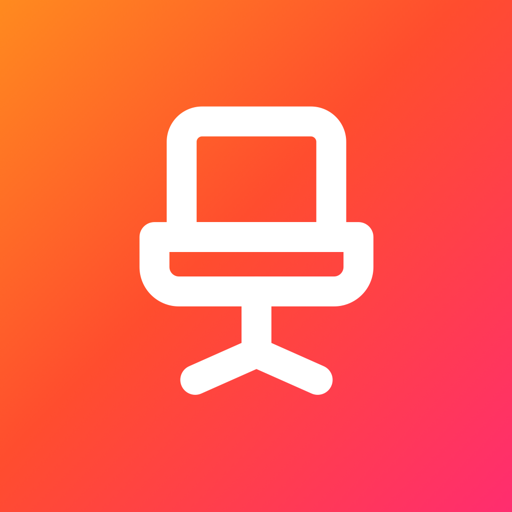
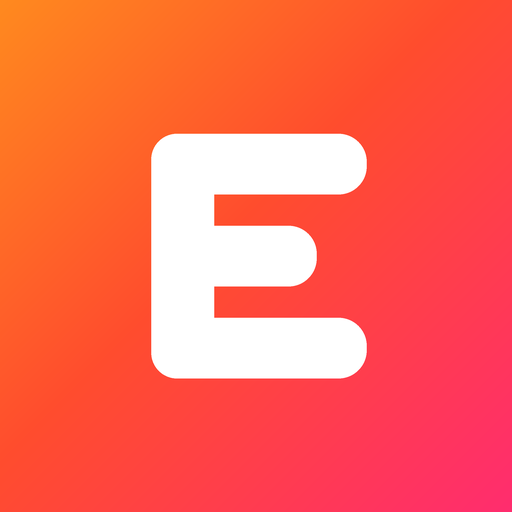
Rename the visible brand to Edify; label sample content honestly
- Tab title, Home Screen name, manifest, welcome and desktop logos, share
  text, Stories label and team credits now say Edify / Team 10. The URL
  path /hot-seat/ is unchanged because printed QR codes point at it.
- New neutral E mark replaces the hot-seat chair in the logo and app icons.
- Board answers from invented people are labelled 'Sample answer' and no
  longer carry a Verified CEO badge; debate takes are marked as samples.
- The feed rail shows Like / Debate instead of invented counts, and the
  welcome screen no longer claims an invented player count.

Changed region(s): [[0.25, 0.1875, 0.75, 0.7812]]

diff --git a/index.html b/index.html
@@ -6,11 +6,11 @@
 <meta name="apple-mobile-web-app-capable" content="yes">
 <meta name="mobile-web-app-capable" content="yes">
 <meta name="apple-mobile-web-app-status-bar-style" content="black">
-<meta name="apple-mobile-web-app-title" content="Hot Seat">
+<meta name="apple-mobile-web-app-title" content="Edify">
 <link rel="apple-touch-icon" href="icon-180.png">
 <link rel="icon" type="image/png" href="icon-192.png">
 <link rel="manifest" href="manifest.webmanifest">
-<title>Hot Seat</title>
+<title>Edify</title>
 
 <meta name="theme-color" content="#000000">
 <link rel="preconnect" href="https://fonts.googleapis.com">
@@ -955,6 +955,9 @@ svg{display:block}
 #minput{flex:1;min-height:40px;max-height:120px;resize:none;border:0;outline:0;border-radius:20px;background:var(--s2);color:var(--fg1);padding:10px 14px;font:500 16px/1.25 var(--font-t);box-shadow:inset 0 0 0 1px var(--line2)}
 #minput::placeholder{color:var(--fg4)}
 
+.ans .ah .tier.smp{background:rgb(255 255 255/.08);color:var(--fg3);margin-left:4px}
+.smpnote{margin:0 0 10px;font:600 12.5px/1.3 var(--font-t);color:var(--fg3)}
+
 [hidden]{display:none!important}
 
 </style>
@@ -962,7 +965,7 @@ svg{display:block}
 <body>
 <div class="stage" id="stage">
   <aside class="side l" aria-hidden="true">
-    <div class="brand"><svg width="44" height="44" viewBox="0 0 44 44"><rect width="44" height="44" rx="13" fill="url(#gHeat)"/><g transform="translate(10 10)" fill="none" stroke="#fff" stroke-width="2.2" stroke-linecap="round" stroke-linejoin="round"><path d="M8 2.5h8a1.5 1.5 0 0 1 1.5 1.5v7h-11V4A1.5 1.5 0 0 1 8 2.5z"/><path d="M4.5 11h15v2.2a1.8 1.8 0 0 1-1.8 1.8H6.3a1.8 1.8 0 0 1-1.8-1.8z"/><path d="M12 15v4.5M7.5 21.5 12 19.5l4.5 2"/></g></svg><b>Hot Seat</b></div>
+    <div class="brand"><svg width="44" height="44" viewBox="0 0 44 44"><rect width="44" height="44" rx="13" fill="url(#gHeat)"/><g fill="#fff"><rect x="13" y="11.5" width="5.4" height="21" rx="2.2"/><rect x="13" y="11.5" width="18.5" height="5.2" rx="2.4"/><rect x="13" y="19.4" width="14.2" height="5.2" rx="2.4"/><rect x="13" y="27.3" width="18.5" height="5.2" rx="2.4"/></g></svg><b>Edify</b></div>
     <h1>Real CEO decisions. <span>Thirty seconds each.</span></h1>
     <p>Scroll, make the call, see what really happened and how everyone else chose. Climb from Intern to CEO.</p>
     <div class="keys">
@@ -2370,7 +2373,7 @@ const IC = {
 };
 const icon = (n, fill) => `<svg viewBox="0 0 24 24" ${fill ? 'fill="currentColor" stroke="none"' : 'fill="none" stroke="currentColor" stroke-width="2" stroke-linecap="round" stroke-linejoin="round"'} aria-hidden="true">${IC[n] || ''}</svg>`;
 const FLAME = `<svg class="flame" viewBox="0 0 24 24" aria-hidden="true"><path fill="url(#gFlame)" d="M12 2.5c.6 3.2 4.9 5.6 4.9 10.6A4.9 4.9 0 0 1 12 18a4.9 4.9 0 0 1-4.9-4.9c0-2.6 1.4-4.2 2.6-5.3.1 1.5.8 2.6 1.9 3.1-.3-2.9.1-5.8.4-8.4z"/><path fill="#ffe08a" d="M12 11.2c.3 1.5 2.3 2.4 2.3 4.6a2.3 2.3 0 0 1-4.6 0c0-1.3.8-2.1 1.4-2.6.1.7.4 1.1.8 1.3-.1-1.2 0-2.3.1-3.3z"/></svg>`;
-const LOGO = s => `<svg width="${s}" height="${s}" viewBox="0 0 44 44" aria-hidden="true"><rect width="44" height="44" rx="13" fill="url(#gHeat)"/><g transform="translate(10 10)" fill="none" stroke="#fff" stroke-width="2.2" stroke-linecap="round" stroke-linejoin="round"><path d="M8 2.5h8a1.5 1.5 0 0 1 1.5 1.5v7h-11V4A1.5 1.5 0 0 1 8 2.5z"/><path d="M4.5 11h15v2.2a1.8 1.8 0 0 1-1.8 1.8H6.3a1.8 1.8 0 0 1-1.8-1.8z"/><path d="M12 15v4.5M7.5 21.5 12 19.5l4.5 2"/></g></svg>`;
+const LOGO = s => `<svg width="${s}" height="${s}" viewBox="0 0 44 44" aria-hidden="true"><rect width="44" height="44" rx="13" fill="url(#gHeat)"/><g fill="#fff"><rect x="13" y="11.5" width="5.4" height="21" rx="2.2"/><rect x="13" y="11.5" width="18.5" height="5.2" rx="2.4"/><rect x="13" y="19.4" width="14.2" height="5.2" rx="2.4"/><rect x="13" y="27.3" width="18.5" height="5.2" rx="2.4"/></g></svg>`;
 
 /* ================= state ================= */
 const KEY = 'hotseat1:';
@@ -2804,8 +2807,8 @@ function caseCard(c, mode) {
     hero = `<div class="snapwrap"><figure class="snap float" style="--rot:${(hash(c.id) % 7) - 4}deg">${ph}<figcaption>${cap}</figcaption></figure></div>`;
   }
   const rail = `<nav class="rail">
-      <button class="r-like ${S.liked.includes(c.id) ? 'liked' : ''}" aria-label="Like"><span class="ic">${icon('heart', 1)}</span><span class="num lk">${fmt(st.likes + (S.liked.includes(c.id) ? 1 : 0))}</span></button>
-      <button class="r-debate" aria-label="Debate"><span class="ic">${icon('chat', 1)}</span><span class="num">${fmt(st.comments)}</span></button>
+      <button class="r-like ${S.liked.includes(c.id) ? 'liked' : ''}" aria-label="Like"><span class="ic">${icon('heart', 1)}</span><span class="lk">${S.liked.includes(c.id) ? 'Liked' : 'Like'}</span></button>
+      <button class="r-debate" aria-label="Debate"><span class="ic">${icon('chat', 1)}</span><span>Debate</span></button>
       <button class="r-save ${S.saved.includes(c.id) ? 'saved' : ''}" aria-label="Save"><span class="ic">${icon('bookmark', 1)}</span><span>Save</span></button>
       <button class="r-share" aria-label="Share"><span class="ic">${icon('share', 1)}</span><span>Share</span></button></nav>`;
   const facts = (c.facts && c.facts.length && c.type !== 'numbers' && c.type !== 'thread') ? `<div class="collapse q"><div><div class="facts">${c.facts.map(f => `<div class="fact"><b class="num">${esc(f.v)}</b><span>${esc(f.l)}</span></div>`).join('')}</div></div></div>` : '';
@@ -3258,7 +3261,7 @@ function toggleLike(ctrl, force) {
   const id = ctrl.c.id, on = force || !S.liked.includes(id);
   S.liked = S.liked.filter(x => x !== id); if (on) S.liked.push(id); save();
   const st = stat(ctrl.c), n = fmt(st.likes + (on ? 1 : 0));
-  const rb = $('.r-like', ctrl.el); rb.classList.toggle('liked', on); $('.lk', rb).textContent = n;
+  const rb = $('.r-like', ctrl.el); rb.classList.toggle('liked', on); $('.lk', rb).textContent = on ? 'Liked' : 'Like';
   anim($('.ic', rb), [{ transform: 'scale(1)' }, { transform: 'scale(1.35)' }, { transform: 'scale(1)' }], { duration: 500, easing: SPR.bouncy.e });
   const ab = $('.a-like', ctrl.el); if (ab) { ab.classList.toggle('liked', on); ab.innerHTML = icon('heart', on); }
   haptic(); sfx('pop');
@@ -3272,14 +3275,14 @@ function toggleSave(ctrl) {
   haptic(); sfx('pop');
   toast({ icon: '🔖', title: on ? 'Saved to your Playbook' : 'Removed from your Playbook', sub: on ? 'Find it under Playbook → Saved' : '', ms: 1500 });
 }
-async function shareText(text, title = 'Hot Seat') {
+async function shareText(text, title = 'Edify') {
   try { if (navigator.share) { await navigator.share({ title, text }); return; } } catch (e) { if (e && e.name === 'AbortError') return; }
   try { await navigator.clipboard.writeText(text); toast({ icon: '📋', title: 'Copied to clipboard', sub: 'Paste it into LinkedIn or a group chat', ms: 1800 }); }
   catch (e) { openSheet({ title: 'Copy your result', body: `<div class="sharecard"><pre style="-webkit-user-select:text;user-select:text">${esc(text)}</pre></div>` }); }
 }
 function shareCase(c, rec) {
   rec = rec || S.answers[c.id] || S.daily.a[c.id];
-  const t = rec ? `I sat in the hot seat: "${c.hook}"\nMy call: ${c.options[rec.i].t} (${(rec.ms / 1000).toFixed(1)}s) ${rec.win ? '✅' : '❌'}\n${c.options[rec.i].pct}% of players agreed with me. What would you do?` : `Your call: "${c.hook}"\n${c.options.map((o, i) => `${'ABC'[i]}) ${o.t}`).join('\n')}\nAnswer in under 30 seconds on Hot Seat.`;
+  const t = rec ? `I made the call: "${c.hook}"\nMy call: ${c.options[rec.i].t} (${(rec.ms / 1000).toFixed(1)}s) ${rec.win ? '✅' : '❌'}\n${c.options[rec.i].pct}% of players agreed with me. What would you do?` : `Your call: "${c.hook}"\n${c.options.map((o, i) => `${'ABC'[i]}) ${o.t}`).join('\n')}\nAnswer in under 30 seconds on Edify.`;
   shareText(t);
 }
 
@@ -3329,7 +3332,7 @@ function xCard(it, mode) {
         : `<div class="eyebrow">Daily 5 · done</div><h2>${w}/5 winning calls in ${avg}s average.</h2><div class="grid5">${res.map(r => `<i class="${r.win ? 'w' : 'm'}"></i>`).join('')}</div>
           <p>You beat ${clamp(38 + w * 11 + Math.round((20 - avg) * 0.8), 5, 99)}% of today's players. Next Daily 5 in <b class="num" id="dcd"></b>.</p>
           <button class="btn heat x-s">${icon('share')} Share your score</button>`;
-      if (done >= 5) { $('.x-s', box).onclick = () => shareText(`Hot Seat · Daily 5 · ${new Date().toLocaleDateString('en-US', { month: 'short', day: 'numeric' })}\n${res.map(r => r.win ? '🟩' : '🟥').join('')}  ${w}/5 winning calls\n⚡ ${avg}s average · 🔥 ${S.streak}-day streak`); tickCountdown(); }
+      if (done >= 5) { $('.x-s', box).onclick = () => shareText(`Edify · Daily 5 · ${new Date().toLocaleDateString('en-US', { month: 'short', day: 'numeric' })}\n${res.map(r => r.win ? '🟩' : '🟥').join('')}  ${w}/5 winning calls\n⚡ ${avg}s average · 🔥 ${S.streak}-day streak`); tickCountdown(); }
     }
   }
   render();
@@ -3345,8 +3348,8 @@ function tickCountdown() {
   cdT = setTimeout(tickCountdown, 1000);
 }
 function ansHTML(a, k, voted) {
-  const tier = a.tier || 'Member', cls = /Verified/.test(tier) ? 'v' : /VP/.test(tier) ? 'p' : '';
-  return `<button class="ans ${voted === k ? 'voted' : ''}" data-k="${k}"><div class="ah"><span class="av" style="width:22px;height:22px;font-size:9px;background:${avColor(a.name)}">${esc(initials(a.name))}</span>${esc(a.name)} <span class="tier ${cls}">${esc(tier)}</span></div><p>${esc(a.text)}</p><div class="vote">${icon('up')} <span class="num">${(a.votes || 0) + (voted === k ? 1 : 0)}</span> · ${esc(a.org || '')}</div></button>`;
+  const tier = String(a.tier || 'Member').replace(/^Verified CEO$/i, 'CEO'), cls = /VP/.test(tier) ? 'p' : '';
+  return `<button class="ans ${voted === k ? 'voted' : ''}" data-k="${k}"><div class="ah"><span class="av" style="width:22px;height:22px;font-size:9px;background:${avColor(a.name)}">${esc(initials(a.name))}</span>${esc(a.name)} <span class="tier ${cls}">${esc(tier)}</span><span class="tier smp">Sample answer</span></div><p>${esc(a.text)}</p><div class="vote">${icon('up')} <span class="num">${(a.votes || 0) + (voted === k ? 1 : 0)}</span> · ${esc(a.org || '')}</div></button>`;
 }
 function bindVotes(box, b, rerender) {
   $$('.ans', box).forEach(btn => btn.onclick = () => {
@@ -3797,14 +3800,14 @@ function openCoach(c) {
     <p style="margin:0;font:500 15px/1.5 var(--font-t);color:var(--fg2)">${esc(c.outcome)}</p>
     ${(c.deep || []).map((d, k) => `<div class="bul"><i>${k + 1}</i><span>${esc(d)}</span></div>`).join('')}
     <div class="lesson" style="margin-top:4px"><small>Take it with you</small><b>${esc(c.lesson)}</b></div>
-    ${c.source ? `<div class="src">Source: ${esc(c.source)}. Summary written by the Hot Seat team, not a quote.</div>` : '<div class="src">Scenario written by the Hot Seat team from common founder situations.</div>'}
+    ${c.source ? `<div class="src">Source: ${esc(c.source)}. Summary written by Team 10, not a quote.</div>` : '<div class="src">Scenario written by Team 10 from common founder situations.</div>'}
     <button class="btn ghost" id="coachAsk" style="width:100%">${icon('chat')} Ask the Board about this</button></div>`,
     onMount() { $('#coachAsk').onclick = () => { closeSheet(); askSeg = 'board'; go('ask'); setTimeout(openComposer, 420); }; } });
 }
 function openListen(c) {
   const L = c.listen || { title: c.hook, mins: 12 }, bars = 46;
   const chaps = ['The setup', 'The room', 'The call', 'What happened next'];
-  openSheet({ title: 'Full story', body: `<div class="ep" style="--c1:${c.palette[0]};--c2:${c.palette[1]}"><span class="cover">${c.emoji}</span><span><b>${esc(L.title)}</b><small>Hot Seat Stories · ${L.mins} min${c.company ? ' · ' + esc(c.company) : ''}</small></span></div>
+  openSheet({ title: 'Full story', body: `<div class="ep" style="--c1:${c.palette[0]};--c2:${c.palette[1]}"><span class="cover">${c.emoji}</span><span><b>${esc(L.title)}</b><small>Edify Stories · ${L.mins} min${c.company ? ' · ' + esc(c.company) : ''}</small></span></div>
     <div class="wave" id="wave">${Array.from({ length: bars }, (_, k) => `<i style="height:${18 + Math.abs(Math.sin(k * 1.7 + hash(c.id) % 7) * 70) + (k % 3) * 4}%"></i>`).join('')}</div>
     <div style="display:flex;justify-content:space-between;font:600 12px/1 var(--font-t);color:var(--fg3)"><span class="num">0:00</span><span class="num">${L.mins}:00</span></div>
     <div style="display:flex;justify-content:center;margin:14px 0 6px"><button class="btn heat" id="playB" style="width:64px;height:64px;border-radius:50%;padding:0">${icon('play', 1)}</button></div>
@@ -3818,7 +3821,7 @@ function openListen(c) {
 const COMMENTS = [
   ['Dana R.', 'CEO tier', 'Took me 4 seconds. The longer I think, the more I talk myself into the safe option.', 214],
   ['Sam K.', 'VP tier', 'Changed my answer at the last second. Gut was right the first time.', 131],
-  ['Ifeoma A.', 'Verified CEO', 'In the room this never feels obvious. You have half the data and a board breathing on you.', 388],
+  ['Ifeoma A.', 'CEO tier', 'In the room this never feels obvious. You have half the data and a board breathing on you.', 388],
   ['Luis M.', 'Manager tier', 'We faced almost this exact call with our biggest client last year. We blinked.', 97],
   ['Bea T.', 'Director tier', 'The split surprised me. Most people played it safe.', 76],
   ['Arjun V.', 'Analyst tier', 'Would love the full interview on this one. Saved it for the gym.', 52],
@@ -3828,9 +3831,9 @@ function openDebate(c) {
   const h = hash(c.id), pick = [0, 1, 2, 3, 4, 5, 6].sort((a, b) => ((a * 7 + h) % 11) - ((b * 7 + h) % 11)).slice(0, 5).map(k => COMMENTS[k]);
   const mine = (S.comments[c.id] || []);
   const draw = () => `${[...mine.map(t => [myName(), lvl(S.xp).name + ' tier', t, 1, true]), ...pick].map(([n, t, p, l, me]) => `<div class="comment"><span class="av" style="width:36px;height:36px;background:${me ? 'var(--heat-grad)' : avColor(n)}">${esc(initials(n))}</span><div><b>${esc(n)} <span class="tier" style="font:800 9.5px/1 var(--font-t);letter-spacing:.06em;text-transform:uppercase;padding:3px 5px;border-radius:5px;background:var(--s3);color:${/Verified/.test(t) ? 'var(--cool)' : /CEO/.test(t) ? 'var(--xp)' : 'var(--fg3)'}">${esc(t)}</span></b><p>${esc(p)}</p></div><span class="lk">${icon('heart')}<span class="num">${l}</span></span></div>`).join('')}`;
-  openSheet({ title: `${fmt(stat(c).comments + mine.length)} takes`, body: `<div id="cmts">${draw()}</div><form class="inputrow" id="cform"><input id="cin" placeholder="Add your take…" autocomplete="off" maxlength="200"><button class="sendb" aria-label="Post">${icon('send')}</button></form>`,
+  openSheet({ title: 'Takes', body: `<p class="smpnote">Sample takes for this concept demo.</p><div id="cmts">${draw()}</div><form class="inputrow" id="cform"><input id="cin" placeholder="Add your take…" autocomplete="off" maxlength="200"><button class="sendb" aria-label="Post">${icon('send')}</button></form>`,
     onMount() {
-      $('#cform').onsubmit = e => { e.preventDefault(); const v = $('#cin').value.trim(); if (!v) return; mine.unshift(v); S.comments[c.id] = mine; save(); $('#cmts').innerHTML = draw(); $('#sheetT').textContent = `${fmt(stat(c).comments + mine.length)} takes`; $('#cin').value = ''; anim($('#cmts .comment'), [{ opacity: 0, transform: 'translateY(-10px) scale(.96)' }, { opacity: 1, transform: 'none' }], { duration: SPR.bouncy.d, easing: SPR.bouncy.e }); haptic(); sfx('pop'); };
+      $('#cform').onsubmit = e => { e.preventDefault(); const v = $('#cin').value.trim(); if (!v) return; mine.unshift(v); S.comments[c.id] = mine; save(); $('#cmts').innerHTML = draw();  $('#cin').value = ''; anim($('#cmts .comment'), [{ opacity: 0, transform: 'translateY(-10px) scale(.96)' }, { opacity: 1, transform: 'none' }], { duration: SPR.bouncy.d, easing: SPR.bouncy.e }); haptic(); sfx('pop'); };
     } });
 }
 function openStreak() {
@@ -3854,7 +3857,7 @@ function openGoal() {
 }
 function openAbout() {
   openSheet({ title: 'About this concept', body: `<div style="display:grid;gap:14px;font:500 15px/1.5 var(--font-t);color:var(--fg2)">
-    <div style="display:flex;gap:12px;align-items:center">${LOGO(48)}<div><b style="font:800 20px/1 var(--font-d);color:var(--fg1)">Hot Seat</b><div style="font-size:13px;color:var(--fg3);margin-top:4px">A concept for Edify by Team 10, Babson EPS 1210</div></div></div>
+    <div style="display:flex;gap:12px;align-items:center">${LOGO(48)}<div><b style="font:800 20px/1 var(--font-d);color:var(--fg1)">Edify</b><div style="font-size:13px;color:var(--fg3);margin-top:4px">A concept for Edify by Team 10, Babson EPS 1210</div></div></div>
     <p style="margin:0">We logged 277 issues in CEO Wisdom, then rebuilt the core loop as a vertical feed: one decision per screen, thirty seconds to make the call, then what really happened and how everyone else chose.</p>
     <p style="margin:0">Real cases are summarized from public reporting and never quoted as a CEO's own words. Player counts, splits, leagues, comments and member answers are sample data for this prototype.</p>
     <p style="margin:0">Add it to your Home Screen from Safari's Share menu to run it full screen like an app.</p></div>` });
@@ -3868,12 +3871,12 @@ function showOnboarding(replay) {
   const T = ['Strategy', 'Growth', 'Crisis', 'People', 'Money', 'Marketing', 'Product', 'Founder life'], sel = new Set(S.interests && S.interests.length ? S.interests : []);
   let goal = S.goal || 5;
   o.innerHTML = `<div class="wall">${col(0)}${col(1)}${col(2)}</div><div class="fade"></div><div class="fade2"></div>
-    <div class="ostep" data-s="0"><div class="logo">${LOGO(40)}<b>Hot Seat</b></div><h1>Make the call.</h1><p>Real CEO decisions, thirty seconds each. See what really happened, how everyone else chose, and climb from Intern to CEO.</p>
-      <div class="proof"><div class="avs">${['Priya S.', 'Marcus T.', 'Lena K.', 'Diego R.'].map(n => `<span class="av" style="background:${avColor(n)}">${initials(n)}</span>`).join('')}</div>3,412 people made today's calls</div>
+    <div class="ostep" data-s="0"><div class="logo">${LOGO(40)}<b>Edify</b></div><h1>Make the call.</h1><p>Real CEO decisions, thirty seconds each. See what really happened, how everyone else chose, and climb from Intern to CEO.</p>
+      <div class="proof">Real cases from public reporting · Five new calls every morning</div>
       <button class="btn heat" data-next>Start</button></div>
     <div class="ostep hidden" data-s="1"><button class="skipb" data-done>Skip</button><div class="topgap"></div><h2>What's your world?</h2><p>Pick as many as you like. You can change this any time.</p><div class="chips" id="och">${T.map(t => `<button class="tchip ${sel.has(t) ? 'on' : ''}" data-t="${t}"><span class="ck">${icon('check')}</span>${t}</button>`).join('')}</div><button class="btn heat" data-next id="o1n">Continue</button></div>
     <div class="ostep hidden" data-s="2"><button class="skipb" data-done>Skip</button><div class="topgap"></div><h2>How many calls a day?</h2><div class="goal">${[[3, 'Casual', '☕'], [5, 'Regular', '🔥'], [10, 'Serious', '🚀']].map(([n, t, e]) => `<button class="choice ${goal === n ? 'on' : ''}" data-g="${n}"><span class="ci">${e}</span><span><b>${t}</b><small>${n} calls · about ${Math.round(n * 0.8)} min</small></span><span></span></button>`).join('')}</div>
-      <input class="namein" id="oname" placeholder="Your first name (optional)" maxlength="20" autocomplete="given-name" value="${esc(S.name || '')}"><button class="btn heat" data-done>Take the hot seat</button></div>`;
+      <input class="namein" id="oname" placeholder="Your first name (optional)" maxlength="20" autocomplete="given-name" value="${esc(S.name || '')}"><button class="btn heat" data-done>Make the call</button></div>`;
   const steps = $$('.ostep', o); let s = 0;
   const show = k => { steps.forEach((st, j) => { st.classList.toggle('hidden', j > k); st.classList.toggle('gone', j < k); }); o.classList.toggle('deep', k > 0); s = k; haptic(); sfx('tap'); };
   $$('[data-next]', o).forEach(b => b.onclick = () => show(s + 1));

diff --git a/README.md b/README.md
@@ -1,6 +1,6 @@
-# Hot Seat
+# Edify (concept by Team 10)
 
-A concept for Edify by Team 10 (Babson EPS 1210): a TikTok-style feed of real CEO decisions. Make the call in twenty seconds, then see what really happened and how everyone else chose.
+A concept for Edify by Team 10 (Babson EPS 1210), first built under the working name Hot Seat: a TikTok-style feed of real CEO decisions. Make the call in twenty seconds, then see what really happened and how everyone else chose.
 
 Open it in Safari on an iPhone and choose Share → Add to Home Screen to run it full screen like an app.
 
